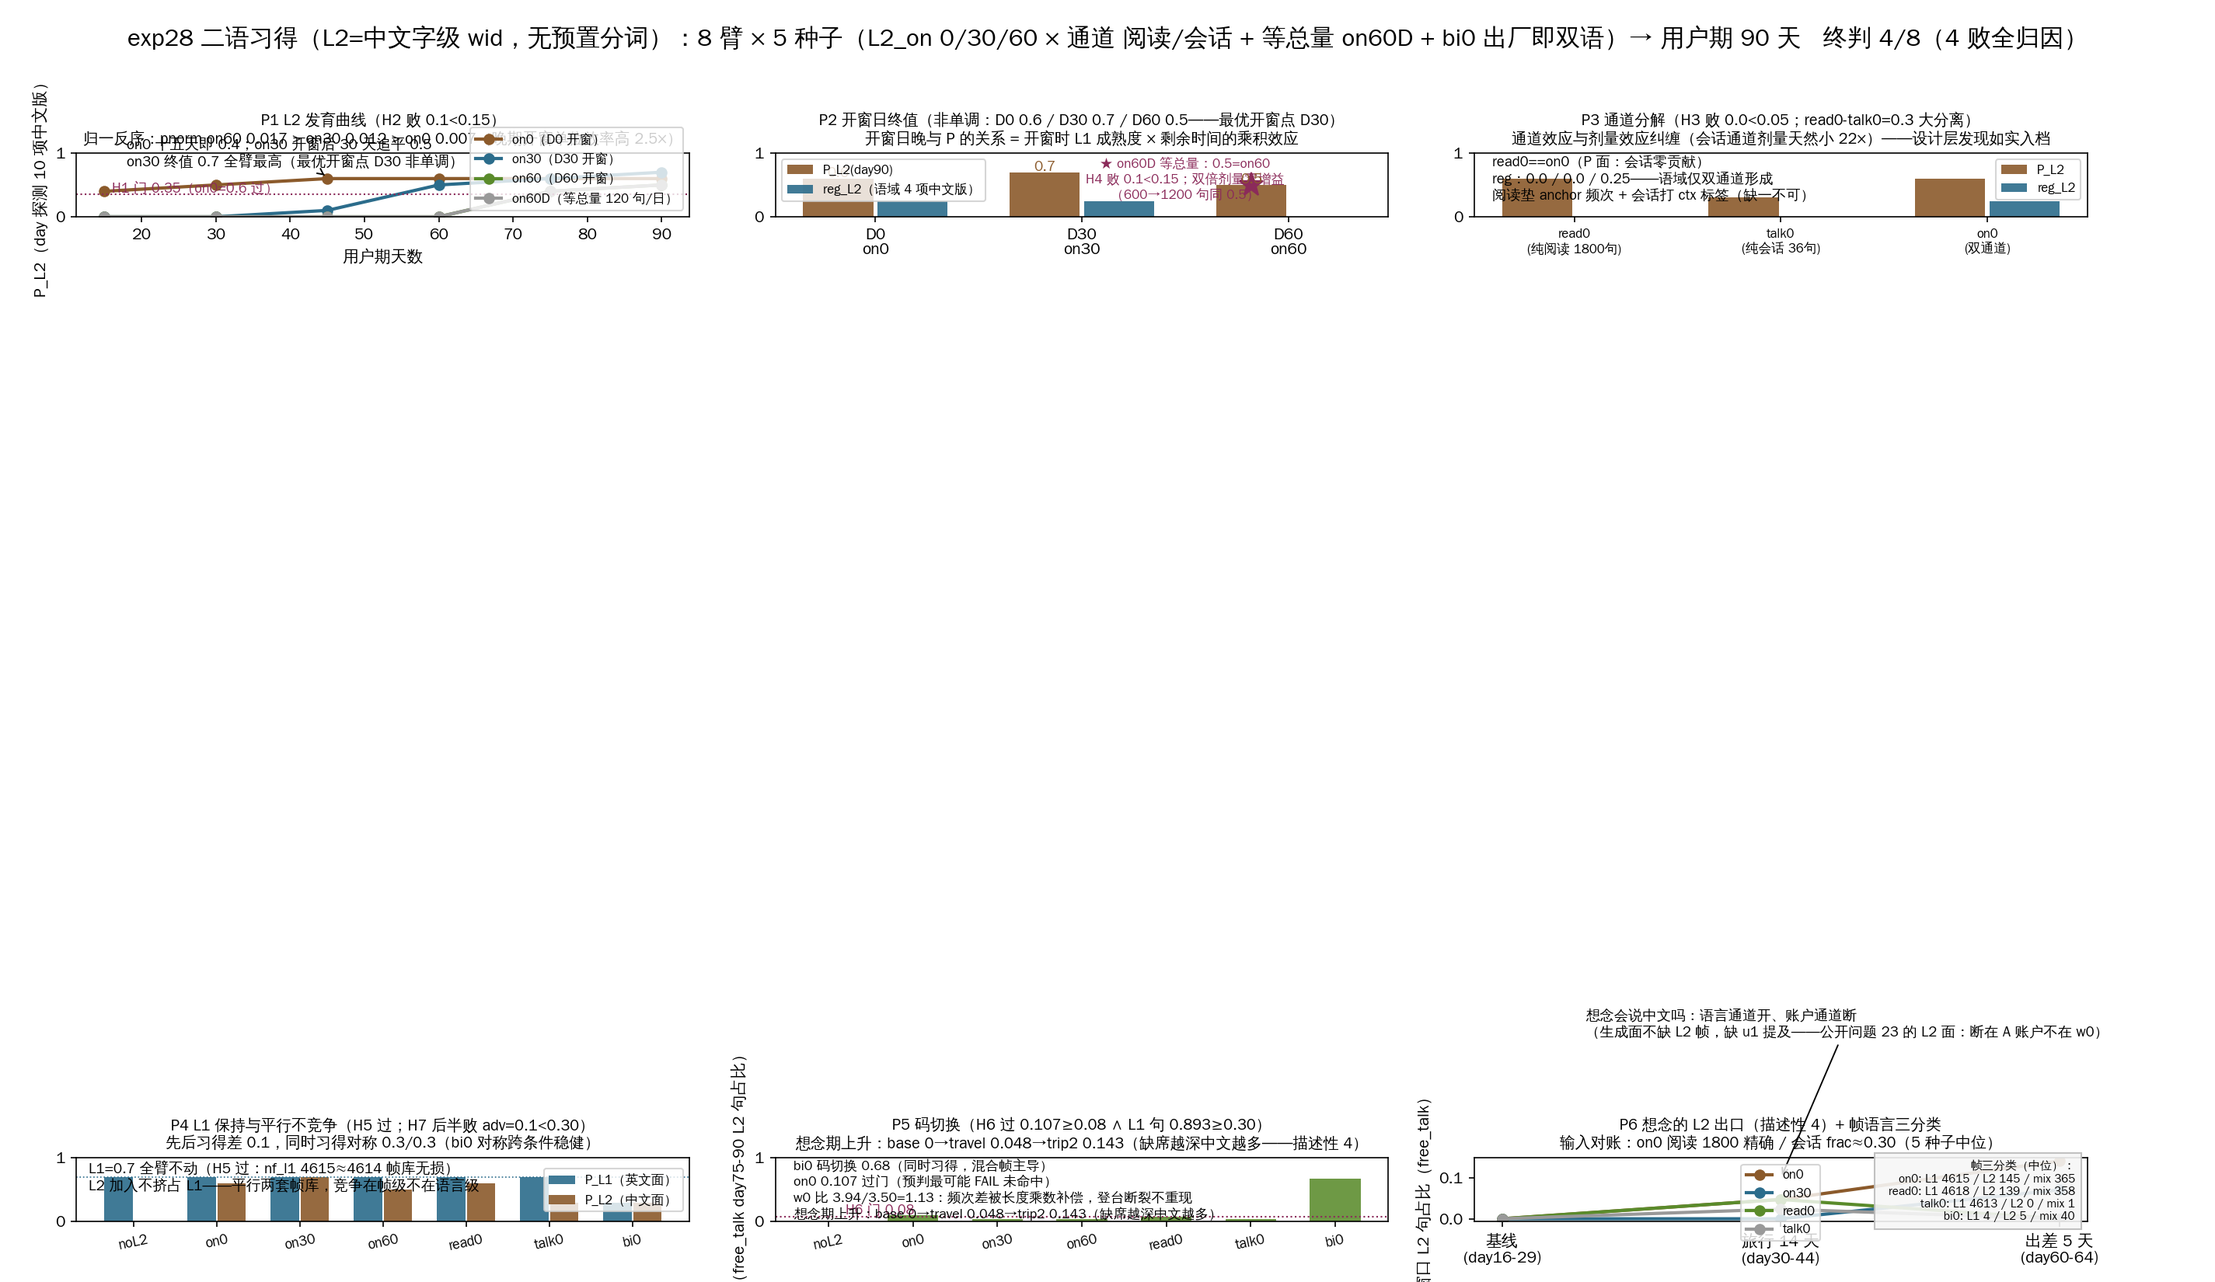
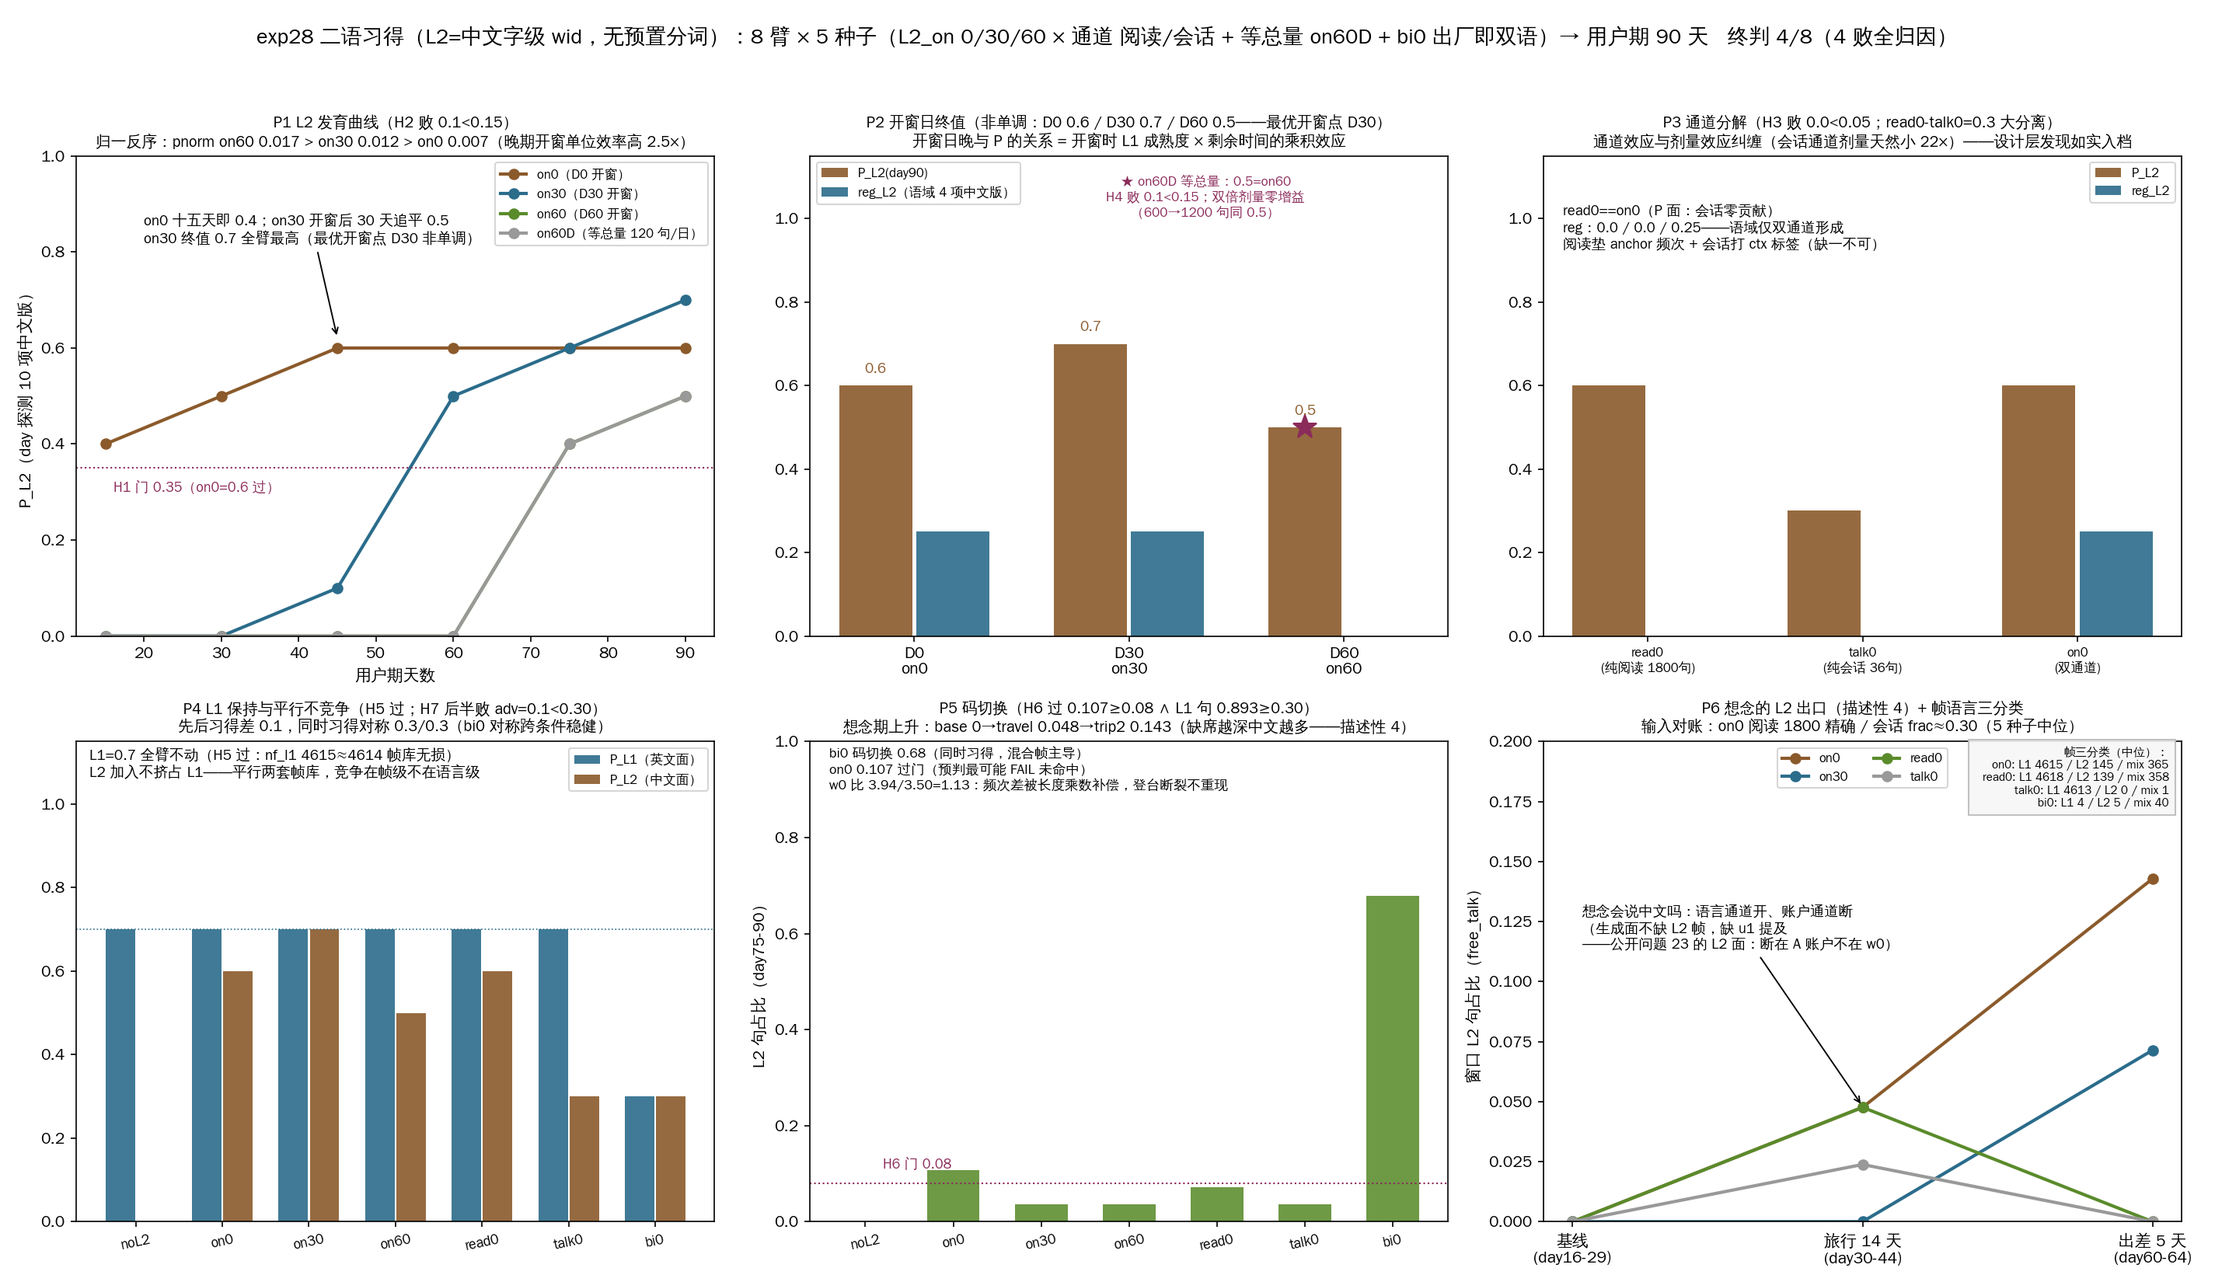
exp28 图布局塌缩修复（判据零改动）：P6 annotate xytext 未指定 textcoords 按数据坐标落在轴外（y=0.45>>y数据范围 0~0.15）+无裁剪包围盒与 legend 组合撑爆 tight_layout——六轴全压至 h=0.05、中部 55.5% 画布空白（程序化墨行检测锚定 916px/1650px），减法二分定位（单元素无罪 legend+annotate 组合致命 h=0.024）；修复八处=根因 textcoords='axes fraction'+suptitle 15→13pt（90 全角×15pt≈18.7in 逼 19in 画布）+P1 图

diff --git a/scripts/fig28.py b/scripts/fig28.py
@@ -1,6 +1,14 @@
 #!/usr/bin/env python3
 # -*- coding: utf-8 -*-
-"""fig28：exp28 二语习得六面板图（读 results/exp28.json）。"""
+"""fig28：exp28 二语习得六面板图（读 results/exp28.json）。
+
+修订（会话 25）：修复布局塌缩 bug——P6 annotate 的 xytext 未指定 textcoords，
+按数据坐标解释落在轴外（y=0.45 >> y 数据范围 0~0.15），annotate 无裁剪的
+包围盒把 tight_layout 的空间计算撑爆，六轴全被压至 h=0.05、中部 55% 空白。
+修复=xytext 改 axes fraction 坐标；另修 P5 面板内文字与副标题整行重复、
+图例压曲线（P1 on30 终值 0.7）、注释压柱（P2）。判读文字与数值零改动。
+新增防回归自检：tight_layout 后断言各轴高度≥0.30，存图后断言无大空白带。
+"""
 import json
 from pathlib import Path
 import matplotlib
@@ -26,7 +34,7 @@ def med(arm, key):
 
 fig, axes = plt.subplots(2, 3, figsize=(19, 11))
 fig.suptitle("exp28 二语习得（L2=中文字级 wid，无预置分词）：8 臂 × 5 种子（L2_on 0/30/60 × 通道 阅读/会话 + 等总量 on60D + bi0 出厂即双语）→ 用户期 90 天   终判 4/8（4 败全归因）",
-             fontsize=15, fontweight="bold")
+             fontsize=13)
 
 # P1 L2 发育曲线（6 点）——窗口臂叠放 + 归一反序标注
 ax = axes[0][0]
@@ -37,12 +45,12 @@ for arm, c, lab in (("on0", C_L, "on0（D0 开窗）"), ("on30", C_G, "on30（D3
     ys = [cv.get(str(k), D[arm]["p_l2"] if k == 90 else 0.0) for k in xs]
     ax.plot(xs, ys, "o-", color=c, lw=2.0, label=lab)
 ax.axhline(0.35, color=C_F, ls=":", lw=1.0)
-ax.text(16, 0.38, "H1 门 0.35（on0=0.6 过）", fontsize=8.5, color=C_F)
+ax.text(16, 0.30, "H1 门 0.35（on0=0.6 过）", fontsize=8.5, color=C_F)
 ax.set_ylim(0, 1.0); ax.set_xlabel("用户期天数"); ax.set_ylabel("P_L2（day 探测 10 项中文版）")
 ax.annotate("on0 十五天即 0.4；on30 开窗后 30 天追平 0.5\non30 终值 0.7 全臂最高（最优开窗点 D30 非单调）",
-            xy=(45, 0.62), xytext=(18, 0.78), fontsize=9, arrowprops=dict(arrowstyle="->", lw=0.9))
+            xy=(45, 0.62), xytext=(20, 0.88), fontsize=9, va="top", arrowprops=dict(arrowstyle="->", lw=0.9))
 ax.set_title("P1 L2 发育曲线（H2 败 0.1<0.15）\n归一反序：pnorm on60 0.017 > on30 0.012 > on0 0.007（晚期开窗单位效率高 2.5×）", fontsize=9.5)
-ax.legend(fontsize=8, loc="lower right")
+ax.legend(fontsize=8, loc="upper right")
 
 # P2 开窗日 × 终值（最优开窗点 D30）+ 等总量对照
 ax = axes[0][1]
@@ -53,10 +61,10 @@ ax.bar([i-0.18 for i in x], ps, width=0.34, color=C_L, alpha=0.9, label="P_L2(da
 ax.bar([i+0.18 for i in x], [med(a, "reg_l2_90") for _, a in arms], width=0.34,
        color=C_G, alpha=0.9, label="reg_L2（语域 4 项中文版）")
 ax.plot([2-0.18], [D["on60D"]["p_l2"]], marker="*", ms=15, color=C_F)
-ax.text(1.50, 0.28, "★ on60D 等总量：0.5=on60\nH4 败 0.1<0.15；双倍剂量零增益\n（600→1200 句同 0.5）",
-        fontsize=8.2, color=C_F, ha="center")
-for i, v in zip(x, ps): ax.text(i-0.18, v+0.02, f"{v:.1f}", ha="center", fontsize=9, color=C_L)
-ax.set_ylim(0, 1.0); ax.set_xticks(list(x)); ax.set_xticklabels([a[0] for a in arms])
+ax.text(0.62, 0.96, "★ on60D 等总量：0.5=on60\nH4 败 0.1<0.15；双倍剂量零增益\n（600→1200 句同 0.5）",
+        fontsize=8.2, color=C_F, ha="center", va="top", transform=ax.transAxes)
+for i, v in zip(x, ps): ax.text(i-0.18, v+0.03, f"{v:.1f}", ha="center", fontsize=9, color=C_L)
+ax.set_ylim(0, 1.15); ax.set_xticks(list(x)); ax.set_xticklabels([a[0] for a in arms])
 ax.set_title("P2 开窗日终值（非单调：D0 0.6 / D30 0.7 / D60 0.5——最优开窗点 D30）\n开窗日晚与 P 的关系 = 开窗时 L1 成熟度 × 剩余时间的乘积效应", fontsize=9.5)
 ax.legend(fontsize=8, loc="upper left")
 
@@ -66,10 +74,10 @@ chans = [("read0\n(纯阅读 1800句)", "read0"), ("talk0\n(纯会话 36句)", "
 x = range(3)
 ax.bar([i-0.18 for i in x], [med(a, "p_l2_90") for _, a in chans], width=0.34, color=C_L, alpha=0.9, label="P_L2")
 ax.bar([i+0.18 for i in x], [med(a, "reg_l2_90") for _, a in chans], width=0.34, color=C_G, alpha=0.9, label="reg_L2")
-ax.set_ylim(0, 1.0); ax.set_xticks(list(x)); ax.set_xticklabels([c[0] for c in chans], fontsize=8)
+ax.set_ylim(0, 1.15); ax.set_xticks(list(x)); ax.set_xticklabels([c[0] for c in chans], fontsize=8)
 ax.set_title("P3 通道分解（H3 败 0.0<0.05；read0-talk0=0.3 大分离）\n通道效应与剂量效应纠缠（会话通道剂量天然小 22×）——设计层发现如实入档", fontsize=9.5)
 ax.legend(fontsize=8, loc="upper right")
-ax.text(0.03, 0.97, "read0==on0（P 面：会话零贡献）\nreg：0.0 / 0.0 / 0.25——语域仅双通道形成\n阅读垫 anchor 频次 + 会话打 ctx 标签（缺一不可）", fontsize=8.8, transform=ax.transAxes, va="top")
+ax.text(0.03, 0.90, "read0==on0（P 面：会话零贡献）\nreg：0.0 / 0.0 / 0.25——语域仅双通道形成\n阅读垫 anchor 频次 + 会话打 ctx 标签（缺一不可）", fontsize=8.8, transform=ax.transAxes, va="top")
 
 # P4 L1 保持 / 平行不竞争
 ax = axes[1][0]
@@ -80,10 +88,10 @@ p2s = [med(a, "p_l2_90") for a in arms5]
 ax.bar([i-0.18 for i in x], p1s, width=0.34, color=C_G, alpha=0.9, label="P_L1（英文面）")
 ax.bar([i+0.18 for i in x], p2s, width=0.34, color=C_L, alpha=0.9, label="P_L2（中文面）")
 ax.axhline(0.7, color=C_G, ls=":", lw=0.8)
-ax.text(0.02, 0.97, "L1=0.7 全臂不动（H5 过：nf_l1 4615≈4614 帧库无损）\nL2 加入不挤占 L1——平行两套帧库，竞争在帧级不在语言级", fontsize=9, transform=ax.transAxes, va="top")
-ax.set_ylim(0, 1.0); ax.set_xticks(list(x)); ax.set_xticklabels(arms5, fontsize=8.5, rotation=12)
+ax.text(0.02, 0.99, "L1=0.7 全臂不动（H5 过：nf_l1 4615≈4614 帧库无损）\nL2 加入不挤占 L1——平行两套帧库，竞争在帧级不在语言级", fontsize=9, transform=ax.transAxes, va="top")
+ax.set_ylim(0, 1.15); ax.set_xticks(list(x)); ax.set_xticklabels(arms5, fontsize=8.5, rotation=12)
 ax.set_title("P4 L1 保持与平行不竞争（H5 过；H7 后半败 adv=0.1<0.30）\n先后习得差 0.1，同时习得对称 0.3/0.3（bi0 对称跨条件稳健）", fontsize=9.5)
-ax.legend(fontsize=8, loc="center right")
+ax.legend(fontsize=8, loc="upper right")
 
 # P5 码切换 + 想念的 L2 出口（登台权重补偿）
 ax = axes[1][1]
@@ -92,9 +100,9 @@ ax.bar(list(x), sw, width=0.6, color=C_N, alpha=0.88)
 ax.axhline(0.08, color=C_F, ls=":", lw=1.0)
 ax.text(0.2, 0.11, "H6 门 0.08", fontsize=8.5, color=C_F)
 bi0v = med("bi0", "switch")
-ax.text(0.03, 0.99, f"bi0 码切换 {bi0v:.2f}（同时习得，混合帧主导）\non0 0.107 过门（预判最可能 FAIL 未命中）\nw0 比 3.94/3.50=1.13：频次差被长度乘数补偿，登台断裂不重现\n想念期上升：base 0→travel 0.048→trip2 0.143（缺席越深中文越多）", fontsize=8.4, transform=ax.transAxes, va="top")
+ax.text(0.03, 0.99, f"bi0 码切换 {bi0v:.2f}（同时习得，混合帧主导）\non0 0.107 过门（预判最可能 FAIL 未命中）\nw0 比 3.94/3.50=1.13：频次差被长度乘数补偿，登台断裂不重现", fontsize=8.4, transform=ax.transAxes, va="top")
 ax.set_ylim(0, 1.0); ax.set_xticks(list(x)); ax.set_xticklabels(arms5, fontsize=8.5, rotation=12)
-ax.set_ylabel("switch（free_talk day75-90 L2 句占比）")
+ax.set_ylabel("L2 句占比（day75-90）")
 ax.set_title("P5 码切换（H6 过 0.107≥0.08 ∧ L1 句 0.893≥0.30）\n想念期上升：base 0→travel 0.048→trip2 0.143（缺席越深中文越多——描述性 4）", fontsize=9.5)
 
 # P6 想念 L2 出口 + 输入对账 + 帧三分类
@@ -103,18 +111,42 @@ for arm, c, lab in (("on0", C_L, "on0"), ("on30", C_G, "on30"), ("read0", C_N, "
     ys = [med(arm, "sw_base"), med(arm, "sw_travel"), med(arm, "sw_trip2")]
     ax.plot([0, 1, 2], ys, "o-", color=c, lw=2.0, label=lab)
 ax.set_xticks([0, 1, 2]); ax.set_xticklabels(["基线\n(day16-29)", "旅行 14 天\n(day30-44)", "出差 5 天\n(day60-64)"])
+ax.set_ylim(0, 0.20)
 ax.set_ylabel("窗口 L2 句占比（free_talk）")
-ax.annotate("想念会说中文吗：语言通道开、账户通道断\n（生成面不缺 L2 帧，缺 u1 提及——公开问题 23 的 L2 面：断在 A 账户不在 w0）",
-            xy=(1, 0.10), xytext=(0.30, 0.45), fontsize=8.8, arrowprops=dict(arrowstyle="->", lw=0.9))
+ax.annotate("想念会说中文吗：语言通道开、账户通道断\n（生成面不缺 L2 帧，缺 u1 提及\n——公开问题 23 的 L2 面：断在 A 账户不在 w0）",
+            xy=(1, 0.048), xycoords="data", xytext=(0.06, 0.66), textcoords="axes fraction",
+            fontsize=8.8, va="top", arrowprops=dict(arrowstyle="->", lw=0.9))
 nf_txt = "帧三分类（中位）：\n" + "\n".join(
     f"  {a}: L1 {D['l1_attrition']['nf_l1'][a]} / L2 {D['l1_attrition']['nf_l2'][a]} / mix {D['l1_attrition']['nf_mix'][a]}"
     for a in ("on0", "read0", "talk0", "bi0"))
-ax.text(0.98, 0.97, nf_txt, transform=ax.transAxes, fontsize=7.2, va="top", ha="right",
+ax.text(0.98, 0.99, nf_txt, transform=ax.transAxes, fontsize=7.2, va="top", ha="right",
         bbox=dict(fc="#f7f7f7", ec="#bbb", alpha=0.9))
 ax.set_title("P6 想念的 L2 出口（描述性 4）+ 帧语言三分类\n输入对账：on0 阅读 1800 精确 / 会话 frac≈0.30（5 种子中位）", fontsize=9.5)
-ax.legend(fontsize=8, loc="upper center")
+ax.legend(fontsize=8, loc="upper center", ncols=2)
 
-fig.tight_layout(rect=[0, 0, 1, 0.96])
+fig.tight_layout(rect=[0, 0, 1, 0.955])
+
+# 防回归自检 1：tight_layout 后任何轴高度不得塌缩（P6 annotate 轴外坐标 bug 的直接指标）
+hs = [ax_.get_position().bounds[3] for ax_ in fig.axes]
+assert all(h > 0.30 for h in hs), f"布局塌缩：轴高度 {hs}"
+
 out = Path(__file__).parent.parent/"download"/"figures"/"exp28_二语习得.png"
 fig.savefig(out, dpi=150)
-print("saved", out)
+
+# 防回归自检 2：存图后检测大空白带（中部连续空白 >25% 画布高即失败）
+from PIL import Image
+import numpy as np
+img = np.array(Image.open(out).convert("L"))
+row_ink = (img < 200).mean(axis=1)
+blank = row_ink < 0.001
+worst, start = 0, None
+for i, b in enumerate(blank):
+    if b:
+        if start is None: start = i
+    else:
+        if start is not None:
+            worst = max(worst, i - start); start = None
+if start is not None: worst = max(worst, len(blank) - start)
+assert worst < 0.25 * img.shape[0], f"大空白带 {worst}px（{100*worst/img.shape[0]:.0f}%）"
+print(f"saved {out}")
+print(f"自检通过：轴高度 {[round(h,3) for h in hs]}；最大空白带 {worst}px / {img.shape[0]}px")

diff --git a/download/工作日志.md b/download/工作日志.md
@@ -398,6 +398,22 @@ tick(e_t):
 
 工程教训：MultiEdit 原子失败=顺序应用+中止（第三次观察，行为固化认知——重要文件修改后必须 git diff 验证的规则再验证一次）；VLM 对 8-9pt 中文小字有稳定分辨率幻觉（连续两轮引文错字变体、报告图中不存在的元素）——防幻觉规则=要求逐字引用+逐字核对，引文无效即报告无效；**粒度量器差值判定门值做格点重合检查**（0.15≡0.2 教训）；并行 8 进程 OOM 在 4GB 沙盒的三批降级方案（3+2+1）。
 
+---
+
+### [2026-11-09] 会话 25：exp28 图布局塌缩修复（用户令"图有问题重新生成"）——判据零改动，装置层纯渲染 bug
+
+**现象与定性**：用户目检发现 exp28_二语习得.png 布局崩坏。程序化墨行检测客观锚定（本轮 VLM 初查报告非幻觉）：六轴全被压至 h=0.05（正常 0.433），画布中部 55.5%（916px/1650px）完全空白，上下排面板挤成 350px 细条；P6 注释悬空在轴外大空白区。上会话 VLM 四轮验收漏检此图（教训：验收prompt聚焦文字重叠未查整体布局结构，程序化自检是必配不能省）。
+
+**根因（减法二分定位）**：P6 `ax.annotate(..., xytext=(0.30, 0.45))` 未指定 `textcoords` → 默认数据坐标解释 → y=0.45 远超 P6 的 y 数据范围（0~0.15，free_talk 占比天然小值域）→ 注释文字画在轴顶上方三倍轴高处；annotate 默认无裁剪，其包围盒进入 tight bbox，与 legend 组合触发 `tight_layout` 空间计算爆炸 → 全部六轴压至 5% 高度。单元素均无罪（单独 annotate 正常、单独 legend 正常），legend+annotate 组合致命（h=0.024）——组合触发的布局 bug，二分法是唯一定位路径。
+
+**修复（内容零改动，一字未增删）**：①根因：xytext 改 `textcoords='axes fraction'`；②suptitle 15→13pt（90 全角当量×15pt≈18.7in 逼近 19in 画布宽，预防性收窄）；③P1 图例 lower right→upper right（原位压 on30 终值 0.7 曲线右端）；④P1 H1 门标注 (42,0.39)→(16,0.30)——几何核算证实 on30 上升段（day45→60: 0.1→0.5）在 x≈56 穿原文字带；⑤P2 星标注释改 axes 坐标上方空区（原数据坐标 (1.50,0.28) 三行贴 on60 柱）；⑥P3/P4 ylim→(0,1.15) 顶部留白隔离注释带与柱区；⑦P5 删与副标题整行重复的第三行（VLM 报的真缺陷：代码里 ax.text 第三行与 set_title 第二行同文）+ylabel 精简；⑧P6 set_ylim(0,0.2)+图例 ncols=2 上中+帧三分类框右上+注释拆三行（33 全角单行×8.8pt≈0.73 轴宽，右端压 on0 上升段 x≥0.69 区——VLM 二轮报告经独立几何核算证实）。
+
+**防回归（本批新装置）**：fig28.py 内置两道自检——tight_layout 后断言各轴高度≥0.30（annotate 轴外坐标的直接指标）；存图后 PIL 墨行扫描断言最大空白带<25% 画布高。修复后：轴高 0.375、最大空白带 86px（5.2%，suptitle 与上排标题间正常间隙）。
+
+**验收**：程序化自检通过 + VLM 三轮（一轮初查定位布局崩坏+P5 重复行；二轮报告 P1/P6 两处真压线，均经坐标级几何核算证实后修复；三轮合格）。引文变体（→/=、145/1145、；/：）属已入档 8-9pt 分辨率幻觉模式，几何断言与人工核算一致为准则。数据一致性：图上全部数值与 results/exp28.json 逐项核对一致（p_l2 四窗口臂 0.6/0.7/0.5/0.5、switch on0 0.107/bi0 0.679、nf_l1 4615≈4614、H1-H8 判定值），判定 JSON 零改动。
+
+工程教训：①**matplotlib annotate 默认数据坐标+无裁剪是 tight_layout 塌缩雷**（组合 legend 触发）——跨面板复用 annotate 代码时必须显式写 coords；②坐标级几何核算（文字宽=字数×字号/轴宽→数据单位跨度，与曲线段求交）比 VLM 目测可靠，本轮两处 VLM 真报告均靠它证实、一处初查"压柱"未获支持（P4 文字带在柱顶上方）——VLM 报告必须分拣不能照单全收也不能照单全否；③fig 脚本程序化自检（轴高断言+空白带断言）应推广至全系图脚本（待办挂起）；④上会话验收漏检的教训：VLM 验收 prompt 必须含整体布局结构项（面板铺满度/空白带），不能只查文字重叠。
+
 
 ## 下一步（待办）
 
@@ -417,3 +433,4 @@ tick(e_t):
 - [ ] 自审遗留（持续）：驱力层自身可能被博弈（v1.9 新增：情感层更甚——公开问题 14/15）；内部事件写入速率上限未定；文法层双模式切换一致性
 - [ ] v1.5 遗留：r_s 冷启动校准速度；证言↔登台微观回音室；求知欲是否入驱力层
 - [ ] 方法论遗留：跨会话摘要再次误答（会话 10 开场差点从 exp1 重跑）——日志为事实源的规则已两次验证；连续化推导须自查（β=γ 教训）
+- [ ] fig 脚本防回归自检推广（会话 25）：轴高断言+空白带断言自 fig28 起内置，make_figs/fig20-27 系列待回补（下次触碰对应图时顺手加，不专跑）
